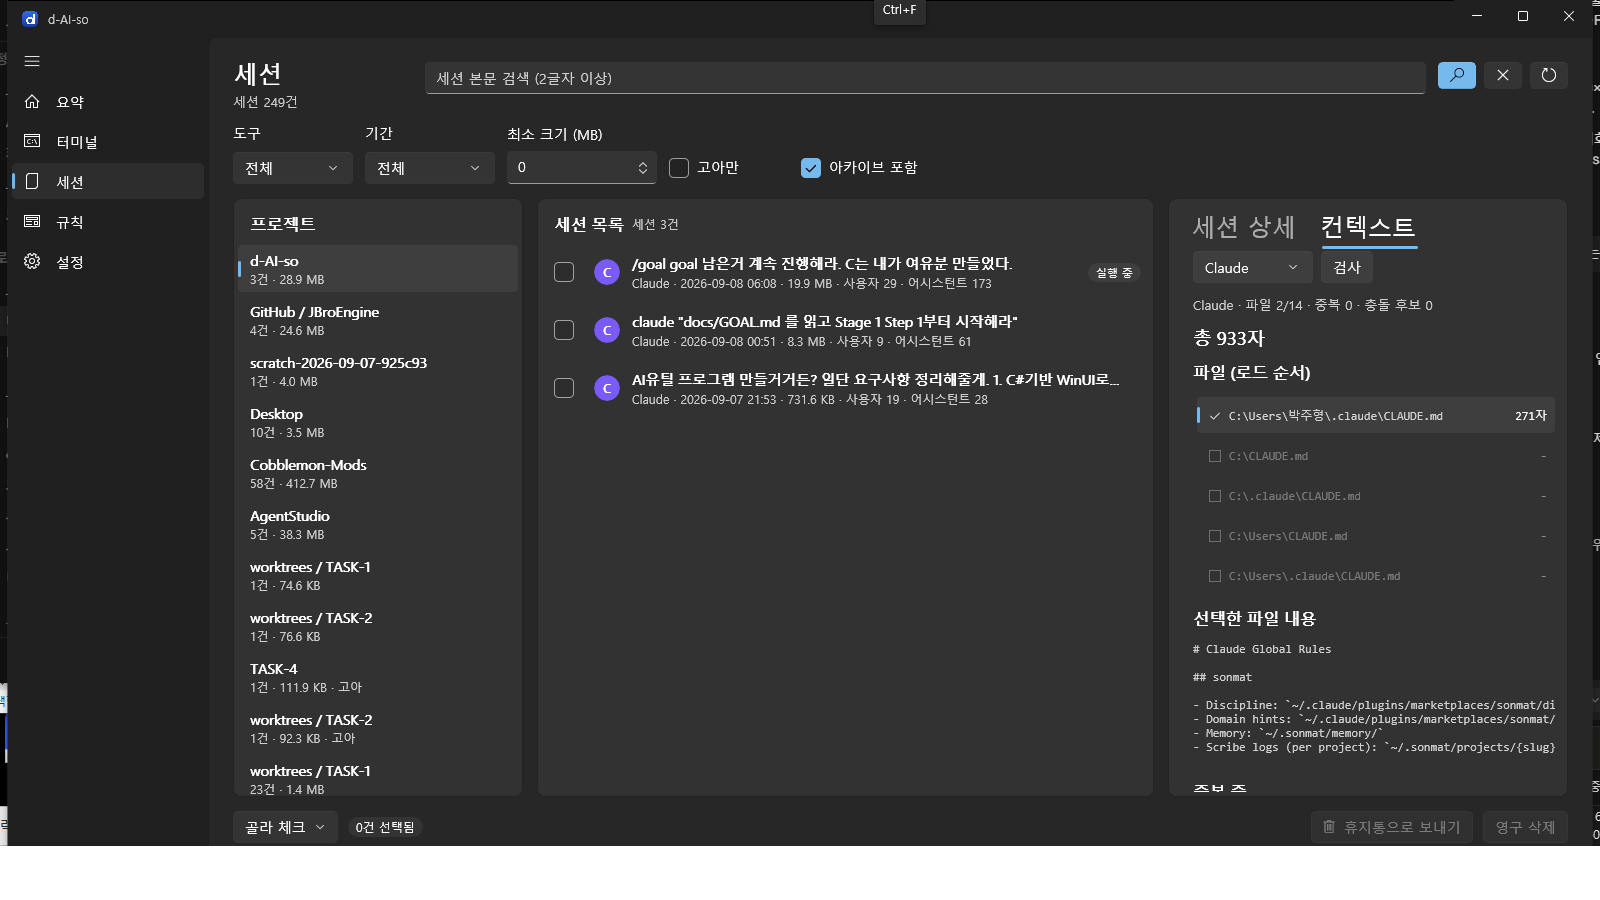
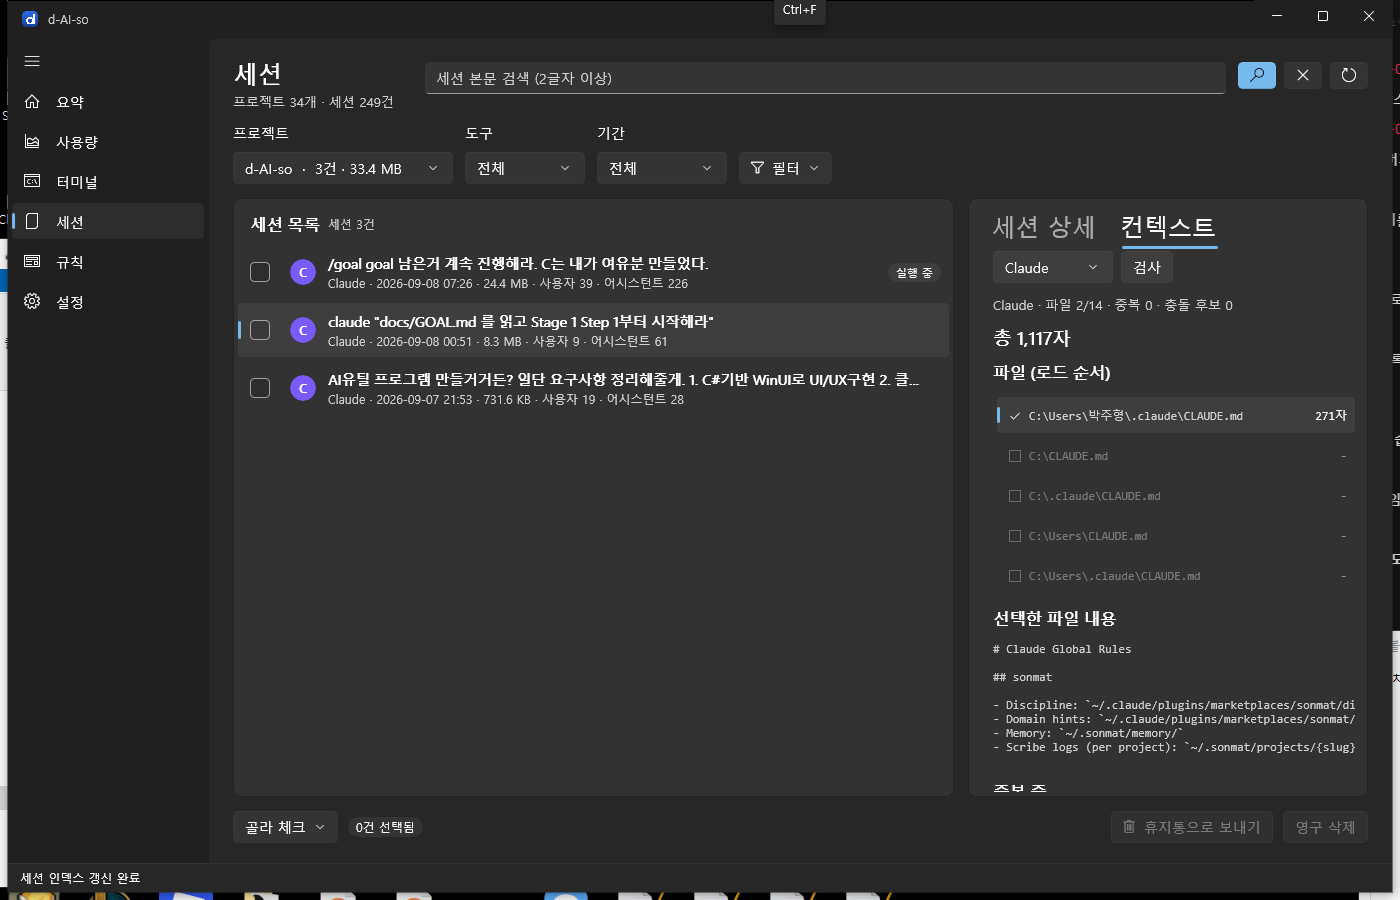
docs: 유료 기준 UX 감사 결과와 단축키·최소 창 규칙 정리, 화면 캡처 갱신

diff --git a/src/Daiso.App/Views/SettingsPage.xaml b/src/Daiso.App/Views/SettingsPage.xaml
@@ -208,6 +208,42 @@
                     </StackPanel>
                 </Border>
 
+                <!-- 단축키: 알려주지 않으면 아무도 모른다 -->
+                <Border Style="{StaticResource CardBorder}">
+                    <StackPanel Spacing="10">
+                        <TextBlock Text="{loc:Str Key=Settings_Shortcuts}" Style="{StaticResource SectionTitleText}" />
+
+                        <Grid ColumnSpacing="16" RowSpacing="6">
+                            <Grid.ColumnDefinitions>
+                                <ColumnDefinition Width="160" />
+                                <ColumnDefinition Width="*" />
+                            </Grid.ColumnDefinitions>
+                            <Grid.RowDefinitions>
+                                <RowDefinition Height="Auto" />
+                                <RowDefinition Height="Auto" />
+                                <RowDefinition Height="Auto" />
+                                <RowDefinition Height="Auto" />
+                                <RowDefinition Height="Auto" />
+                            </Grid.RowDefinitions>
+
+                            <TextBlock Grid.Row="0" Grid.Column="0" Text="{loc:Str Key=Settings_ShortcutNav}" Style="{StaticResource MonoText}" />
+                            <TextBlock Grid.Row="0" Grid.Column="1" Text="{loc:Str Key=Settings_ShortcutNavWhat}" Style="{StaticResource MutedText}" />
+
+                            <TextBlock Grid.Row="1" Grid.Column="0" Text="{loc:Str Key=Settings_ShortcutSearch}" Style="{StaticResource MonoText}" />
+                            <TextBlock Grid.Row="1" Grid.Column="1" Text="{loc:Str Key=Settings_ShortcutSearchWhat}" Style="{StaticResource MutedText}" />
+
+                            <TextBlock Grid.Row="2" Grid.Column="0" Text="{loc:Str Key=Settings_ShortcutEsc}" Style="{StaticResource MonoText}" />
+                            <TextBlock Grid.Row="2" Grid.Column="1" Text="{loc:Str Key=Settings_ShortcutEscWhat}" Style="{StaticResource MutedText}" />
+
+                            <TextBlock Grid.Row="3" Grid.Column="0" Text="{loc:Str Key=Settings_ShortcutRefresh}" Style="{StaticResource MonoText}" />
+                            <TextBlock Grid.Row="3" Grid.Column="1" Text="{loc:Str Key=Settings_ShortcutRefreshWhat}" Style="{StaticResource MutedText}" />
+
+                            <TextBlock Grid.Row="4" Grid.Column="0" Text="{loc:Str Key=Settings_ShortcutSave}" Style="{StaticResource MonoText}" />
+                            <TextBlock Grid.Row="4" Grid.Column="1" Text="{loc:Str Key=Settings_ShortcutSaveWhat}" Style="{StaticResource MutedText}" />
+                        </Grid>
+                    </StackPanel>
+                </Border>
+
                 <!-- 표시와 인덱스 -->
                 <Border Style="{StaticResource CardBorder}">
                     <StackPanel Spacing="12">

diff --git a/docs/UX_SCENARIOS.md b/docs/UX_SCENARIOS.md
@@ -162,4 +162,44 @@
 - **파일 형식·파서·렌더러는 그대로 둔다.** `not`이 든 기존 `.daiso`는 계속 열리고 트리에 NOT 노드로 보이며, 마크다운은 `!조건`으로 렌더된다
 - 근거는 REQUIREMENTS §6.3에 한 줄로 남겼다
 
-남은 것: `다른 폴더 고르기…`로 여는 대화상자의 확정 클릭. 이제 흔한 경로가 아니다.
+## 7차: 유료 배포 기준으로 다시 몰아본 감사
+
+앱을 직접 띄워 창 크기·흐름·상태를 하나씩 확인했다. 이번에 잡은 것은 대부분 **처음 쓰는 사람이 바로 만나는 문제**였다.
+
+### 막히던 것
+
+| 위치 | 문제 | 조치 |
+|---|---|---|
+| Sessions | 1024×700에서 가운데 목록이 **40px로 짜부라져** 제목이 안 보였다 (290+400 고정 열) | 3열 → 2열. 프로젝트 선택을 필터 바 드롭다운으로 올리고, 목록은 `*`+`MinWidth 320`, 상세만 400 고정 |
+| Sessions | 배경 인덱싱과 화면이 같은 SQLite 연결을 써서 `인덱스 갱신 실패: Index was out of range` | 읽기는 호출마다 새 연결, 쓰기는 전용 연결 + 세마포어 (WAL이라 읽기가 안 막힌다) |
+| 전체 | 800×600으로 줄이면 상세 열이 화면 밖으로 잘렸다 | 창 최소 크기를 1024×700으로 강제 (`OverlappedPresenter`) |
+| Sessions 상세 | 세션을 골라도 몇 초간 **빈 판**이었다 (큰 세션 파싱) | "대화를 읽는 중입니다…" + 진행 표시, 다 읽고 비면 안내 |
+| Sessions 상세 | `Tool · 22:01:18` 접힌 줄이 대화를 밀어냈다 | 기본은 대화만. 도구 호출·시스템은 `도구 호출 보기` 토글 |
+| Sessions | 인덱싱이 끝나도 목록이 옛 숫자를 유지했다 | 인덱싱 완료 시 목록·요약 자동 갱신 |
+
+### 어긋나던 것
+
+| 위치 | 문제 | 조치 |
+|---|---|---|
+| 왼쪽 메뉴 | `요약` 안에 또 `요약 / 사용량` 탭이 있었다 | 사용량을 상위 메뉴로 올리고 중첩 탭 제거 (메뉴 6개) |
+| 페이지 제목 | 메뉴는 `요약`인데 제목은 `도구 상태` | 제목은 메뉴와 같은 말로, `도구 상태`는 섹션 제목으로 내림 |
+| 검색 | 지운 뒤에도 `'PROJECT_RULES' 결과 18건`이 남았다 | 지우면 목록 기준 문구로 되돌림 |
+| 검색 | 결과를 보는 중에도 목록 옆 숫자가 프로젝트의 세션 수였다 | 검색 중에는 `결과 N건`, 프로젝트 필터는 잠금(검색은 전체 대상) |
+| 타임라인 | 역할이 `User` / `Assistant` 영어였다 | 사용자·어시스턴트·도구·시스템으로. 시각은 분까지, 사람 말에는 왼쪽 강조 바 |
+| 사용량 | `JBroEngine`이 두 줄로 겹쳐 보였다 | 세션 화면과 같은 `Formats.Labels` 규칙 적용 |
+| 필터 바 | 1024에서 `아카이브 포함`이 잘렸다 | 최소 크기·고아만·아카이브를 `필터` 팝오버로 묶고 초기화 버튼 추가 |
+| 아이콘 | 폴더 글리프가 네모로 렌더됐다 | `SymbolIcon Symbol="Folder"`로 교체 |
+
+### 새로 넣은 것
+
+- 첫 실행(인덱스 없음)에 빈 목록 대신 인덱싱 진행을 보여준다. 임시 인덱스 경로로 실제 재현해 확인했다
+- `Ctrl+1`~`Ctrl+6` 페이지 이동, `Esc` 검색 지우기. 설정에 **단축키** 카드로 적어 발견되게 했다
+- `daiso refresh` — 앱 없이 인덱스를 갱신하는 CLI 명령
+
+### 확인 방법
+
+같은 시나리오를 자동화로 다시 몰았다: 검색(18건) → 결과 트리 → 지우기, 요약의 `이어서 열기` → 터미널에 `claude --resume <id>` 채워짐,
+세션 선택 → 로딩 → 대화 표시, `골라 체크 → 큰 것 선택` → 선택 1건 · 휴지통 버튼 활성, `Ctrl+1`~`6` 이동, 700×500으로 줄여도 1024×700 유지,
+인덱싱 완료 후 부제가 `프로젝트 34개 · 세션 249건`으로 자동 갱신.
+
+남은 것: `다른 폴더 고르기…`로 여는 대화상자의 확정 클릭(흔한 경로가 아니다), 실제 터미널 실행·Markdown 내보내기(창·대화상자를 띄우므로 CLI로만 검증).

diff --git a/docs/ARCHITECTURE.md b/docs/ARCHITECTURE.md
@@ -394,6 +394,8 @@ RefreshAsync
   → messages_fts 삽입, usage_daily 갱신, last_offset = 파일 끝
 ```
 - SQLite: `%LOCALAPPDATA%\d-AI-so\index.db`
+- **읽기와 쓰기는 연결을 나눈다.** 목록·검색·사용량은 호출마다 새 연결을 열고, 갱신·재구축은 전용 연결 + 세마포어로 직렬화한다.
+  하나의 연결을 화면과 배경 갱신이 같이 쓰면 리더가 겹쳐 `IndexOutOfRange`로 깨진다 (WAL이라 읽기는 쓰기를 기다리지 않는다)
 - `messages_fts`: FTS5, **`tokenize='trigram'`**. 3글자 미만 검색어는 `LIKE` 폴백
 - `usage_daily(date, tool, project, model, input, output, cache_create, cache_read)`. Codex는 누적값이라 세션 단위로 **덮어쓰기**(세션 StartedAt 날짜에 귀속), Claude는 메시지 timestamp 날짜별 **합산**
 
@@ -494,7 +496,13 @@ Apply(projectDir, direction, dryRun)
 - 저장·연동처럼 결과가 파일로 남는 버튼은 **저장할 수 있을 때만 활성**이다 (RuleMaker `CanSave`)
 - 사람이 남긴 빈 입력 줄은 저장에서 버린다. 빈 줄 하나로 저장이 막히면 이유를 알기 어렵다
 - 저장 실패는 사람 말로 알린다. 줄·열은 **파일을 열다 실패했을 때만** 보여준다
-- 조건 트리는 AND · OR만 만든다. `not`은 형식에는 남지만 UI로는 만들지 않는다 (REQUIREMENTS §6.3 참고)
+- 조건 트리는 AND · OR만 만든다 (부정은 문장으로 쓴다. REQUIREMENTS §6.3)
+- 창은 **1024×700보다 작아지지 않는다** (`OverlappedPresenter.PreferredMinimum*`). 목록·상세를 나란히 두는 화면이라 그 아래로는 못 쓴다
+- 고정 폭 열은 하나만 둔다 (상세 400). 나머지는 `*` + `MinWidth`. 좁은 창에서 가운데 열이 짜부라지는 구성을 만들지 않는다
+- 자주 쓰지 않는 필터·옵션은 팝오버에 넣어 한 줄이 넘치지 않게 한다
+- 왼쪽 메뉴 항목과 페이지 제목은 같은 말을 쓴다. 메뉴 안에 같은 이름의 탭을 또 두지 않는다
+- 인덱싱이 끝나면 목록·요약을 자동으로 다시 읽는다. 사람이 "다시 읽기"를 눌러야 최신이 되는 화면을 만들지 않는다
+- 단축키는 설정의 "단축키" 카드에 적는다. 알려주지 않는 단축키는 없는 것과 같다
 
 **테마** — 설정의 테마는 고른 즉시 적용한다 (`SettingsViewModel.ThemeChanged` → `ShellWindow.ApplyTheme`).
 - `System`: `MicaBackdrop` + 배경 없음. OS 테마를 따른다

diff --git a/docs/PROGRESS.md b/docs/PROGRESS.md
@@ -25,7 +25,8 @@
 - **REQ §7 마이그레이션**: `CLAUDE.md` ↔ `AGENTS.md` 좌우 diff·방향 선택·import 인라인 전개 (Core·Infrastructure·CLI·RuleMaker 버튼)
 - **화면 문구 로컬라이징**: 노출 문구 205개를 `Strings/ko-KR/Resources.resw` 하나로 모으고 키로만 참조 (ARCHITECTURE §6.1). 문체는 존댓말로 통일
 - **UI/UX 2차 정리**: 시나리오 10개를 직접 따라가며 잘림·여백·위계 문제를 고쳤다 (`docs/UX_SCENARIOS.md`, 규칙은 ARCHITECTURE §6.2)
-- 빌드 경고 0 / 오류 0, 테스트 254건 + Slow 2건 통과 (2026-09-08)
+- **UI/UX 3차(유료 기준) 감사**: 좁은 창 붕괴·인덱스 동시 접근 충돌·세션 상세 가독성 등을 고치고 메뉴 구조를 6개로 정리 (`docs/UX_SCENARIOS.md` 7차)
+- 빌드 경고 0 / 오류 0, 테스트 251건 + Slow 2건 통과 (2026-09-08)
 - 완성 상태 6항목 확인 결과는 README "수동 확인 체크리스트"에 있다
 
 ## ARCHITECTURE에서 벗어난 판단 4건 (모두 문서 반영됨)
